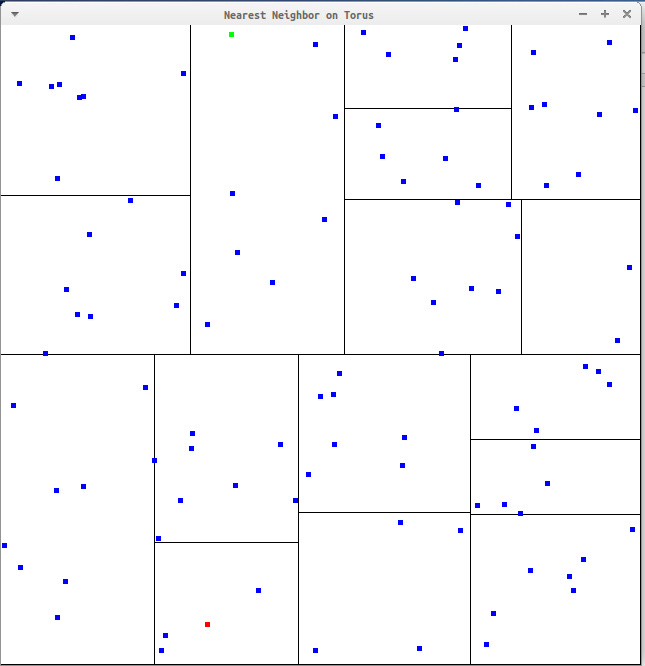
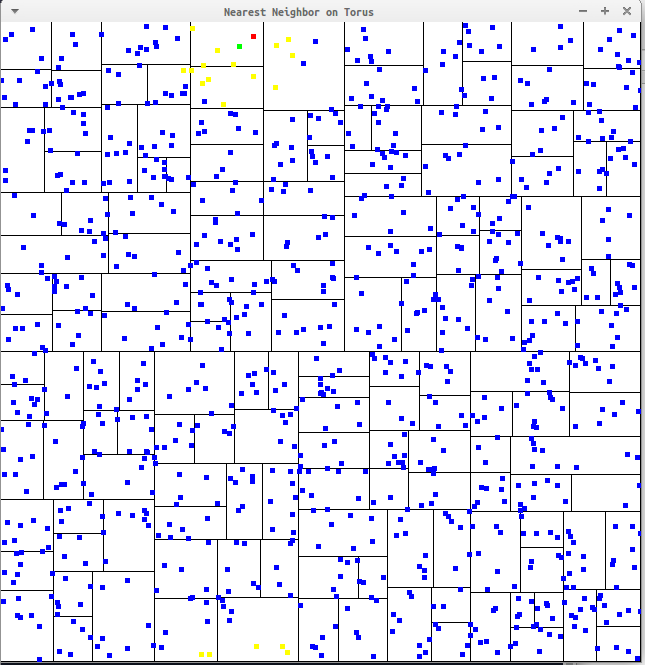
Commit

diff --git a/mpnn.hpp b/mpnn.hpp
@@ -243,6 +243,62 @@ struct kd_tree
             }
         }
     }
+
+    void searchK(const vec & y,uvec & b_idx)
+    {
+        for(int k=0;k<b_idx.n_elem;k++)
+            b_idx(k) = 0;
+        vec b_dist = datum::inf*ones(b_idx.n_elem);
+        searchK(root,y,b_idx,b_dist);
+    }
+
+    void searchK(kd_node * & node,const vec & y,uvec & b_idx,vec & b_dist)
+    {
+        if(node == nullptr) return;
+
+        double box_dist = dist_to_rect(y,node->l_x,node->h_x);
+	double b_max = b_dist(b_idx.n_elem-2);
+        if(box_dist < b_max)
+        {
+            for(auto i : node->idxs)
+            {
+                double aux = dist_to_point(x[i],y);
+		uvec a_idx = zeros<uvec>(b_idx.n_elem+1);
+		vec a_dist = zeros<vec>(b_idx.n_elem+1);
+		for(int k=0;k<b_idx.n_elem;k++)	
+		{
+		    a_idx(k) = b_idx(k);
+		    a_dist(k) = b_dist(k);
+		}	
+		a_idx(a_idx.n_elem-1) = i;
+		a_dist(a_idx.n_elem-1) = aux;
+		uvec a = sort_index(a_dist);
+                for(int k=0;k<b_idx.n_elem;k++)
+		{
+		    b_idx(k) = a_idx(a(k));
+		    b_dist(k) = a_dist(a(k));
+		}
+	    }
+            double d_l = datum::inf;
+            double d_r = datum::inf;
+            if(node->l)
+                d_l = dist_to_rect(y,node->l->l_x,node->l->h_x);
+            if(node->r)
+                d_r = dist_to_rect(y,node->r->l_x,node->r->h_x);
+            if(d_l < d_r)
+            {
+                if(node->l) searchK(node->l,y,b_idx,b_dist);
+                if(node->r) searchK(node->r,y,b_idx,b_dist);
+            }
+            else
+            {
+                if(node->r) searchK(node->r,y,b_idx,b_dist);
+                if(node->l) searchK(node->l,y,b_idx,b_dist);
+            }
+        }
+    }
+
+
 };
 
 

diff --git a/main.cpp b/main.cpp
@@ -112,15 +112,24 @@ int main(int argc,char ** argv)
         glBegin(GL_POINTS);
         glColor3d(0.0,1.0,0.0);
         glVertex2d(2.0*mouse_x(0)-1.0,2.0*mouse_x(1)-1.0);
-        uword n_idx;
-        T.search(mouse_x,n_idx);
+        uvec n_idx = zeros<uvec>(20);
+        T.searchK(mouse_x,n_idx);
         for(uword i=0;i<X.n_cols;i++)
         {
-            if(i != n_idx)
+	    int idx = -1;
+	    for(uword k=0;k<n_idx.n_elem;k++)
+		if(n_idx[k] == i)
+		{
+		   idx = k;
+		   break;		
+		}
+            if(idx < 0)
                 glColor3d(0.0,0.0,1.0);
+            else if(idx == 0)
+	        glColor3d(1.0,0.0,0.0);
             else
-                glColor3d(1.0,0.0,0.0);
-            glVertex2d(Y(0,i),Y(1,i));
+		glColor3d(1.0,1.0,0.0);
+	    glVertex2d(Y(0,i),Y(1,i));
         }
         glEnd();
 

diff --git a/README.md b/README.md
@@ -12,5 +12,6 @@ The example is a kd-tree on a torus; which is a cartesian product S_1 x S_1. Add
 
 The red point is the nearest neighbour, on a torus, to the position of the mouse.
 
+The yellow points are the K nearest neighbours of the mouse.
 
 May later be used for a RRT implementation.
